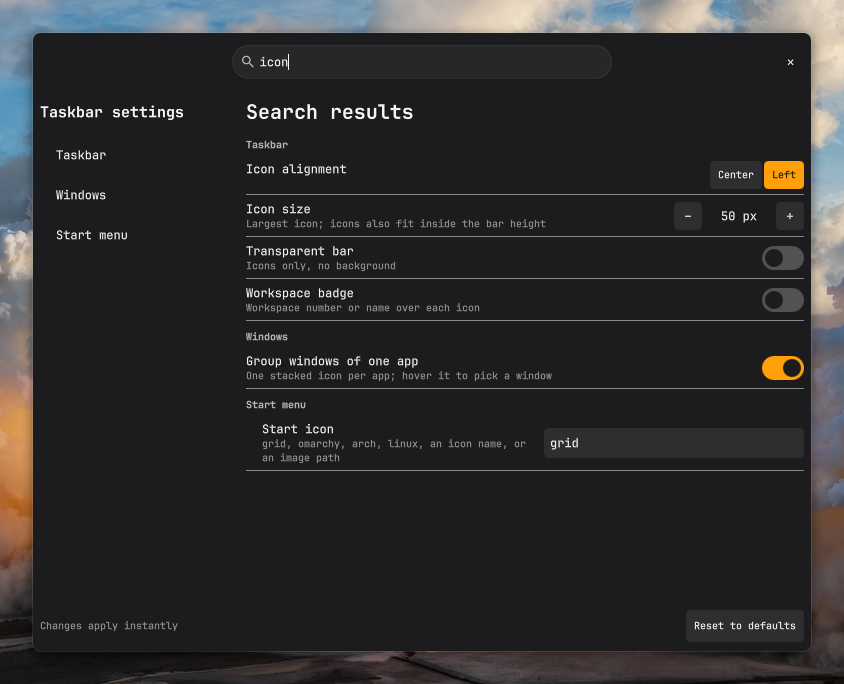
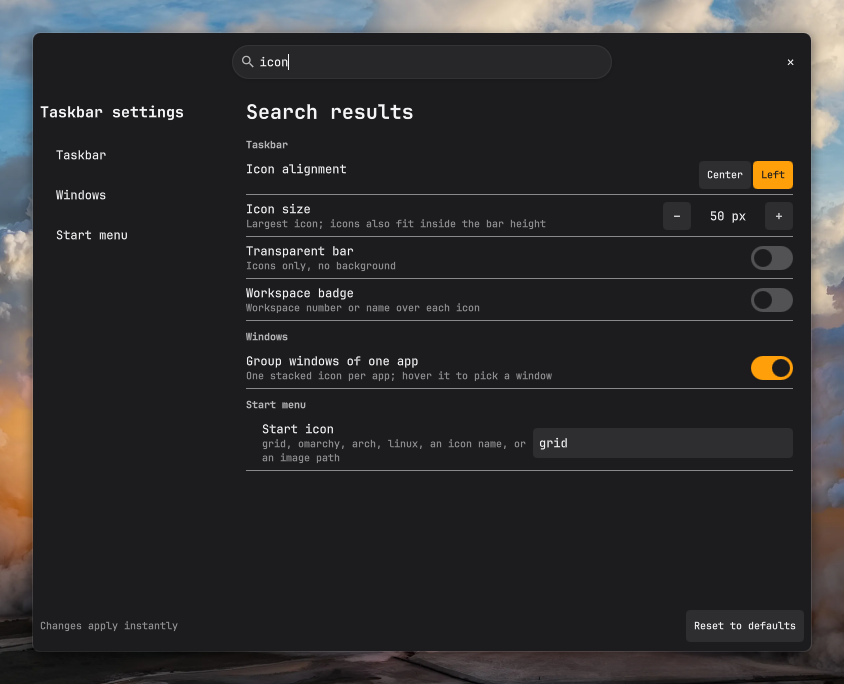
Show a scroll bar in the settings window when a page has more than fits
A page that scrolled gave no sign of it. A thin track now runs down the window's
right edge with a thumb as long as the visible share of the page, only while
there is something to scroll to; drag the thumb or click the track. Its room is
always kept, so the page's width and layout do not change with it. Hand-drawn,
like the rest of the window.

Retake the settings screenshots and the hero GIF, which show it.

diff --git a/Service.qml b/Service.qml
@@ -950,7 +950,9 @@ Item {
         anchors.left: settingsSide.right
         anchors.right: parent.right
         anchors.leftMargin: Style.spacing.lg * 2
-        anchors.rightMargin: Style.spacing.lg
+        // Room for the scroll bar's gutter, always: sizing the body by whether
+        // it scrolls would change its width, and with it its height.
+        anchors.rightMargin: Style.spacing.lg + settingsScrollBar.gutter
         contentHeight: settingsColumn.implicitHeight
         clip: true
         boundsBehavior: Flickable.StopAtBounds
@@ -1088,6 +1090,58 @@ Item {
           }
 
           Item { width: 1; height: Style.spacing.md }
+        }
+      }
+
+      // A scroll bar for the body, there only while the page has more than
+      // fits, so a page that scrolls is seen to: a track down the window's
+      // right edge and a thumb as long as the visible share of the page. Drag
+      // the thumb or click the track; the wheel scrolls the body itself.
+      // (Hand-drawn like the rest of the window: no native controls.)
+      Item {
+        id: settingsScrollBar
+        readonly property int gutter: Style.spacing.lg + Style.spacing.xs
+        readonly property real extent: settingsFlick.contentHeight - settingsFlick.height
+        visible: settingsScrollBar.extent > 1
+        anchors.top: settingsFlick.top
+        anchors.bottom: settingsFlick.bottom
+        anchors.right: parent.right
+        anchors.rightMargin: Style.spacing.lg
+        width: Style.spacing.md
+
+        Rectangle {
+          anchors.fill: parent
+          radius: width / 2
+          color: Util.alpha(root.colPopupText, 0.08)
+        }
+
+        Rectangle {
+          id: scrollThumb
+          width: parent.width
+          radius: width / 2
+          height: Math.min(parent.height, Math.max(Style.space(28), parent.height * settingsFlick.height / settingsFlick.contentHeight))
+          y: settingsScrollBar.extent > 0
+            ? (parent.height - height) * settingsFlick.contentY / settingsScrollBar.extent : 0
+          color: Util.alpha(root.colPopupText, scrollMouse.pressed ? 0.55 : (scrollMouse.containsMouse ? 0.4 : 0.28))
+        }
+
+        MouseArea {
+          id: scrollMouse
+          // A wider target than the thin bar.
+          anchors.fill: parent
+          anchors.leftMargin: -Style.spacing.sm
+          anchors.rightMargin: -Style.spacing.lg
+          hoverEnabled: true
+          cursorShape: Qt.PointingHandCursor
+
+          function scrollTo(pointerY) {
+            var room = settingsScrollBar.height - scrollThumb.height
+            if (room <= 0) return
+            var top = Math.max(0, Math.min(pointerY - scrollThumb.height / 2, room))
+            settingsFlick.contentY = top / room * settingsScrollBar.extent
+          }
+          onPressed: function (mouse) { scrollMouse.scrollTo(mouse.y) }
+          onPositionChanged: function (mouse) { if (scrollMouse.pressed) scrollMouse.scrollTo(mouse.y) }
         }
       }
 

diff --git a/docs/SPEC.md b/docs/SPEC.md
@@ -115,6 +115,7 @@ A window titled "Taskbar settings" with a control for every setting, so nothing 
 - Opened from the "Settings…" row of the Bar menu, and by `omarchy-shell io.github.bmaltais.startbar settings` on the focused monitor (`closeSettings` closes it), so it can be bound to a key.
 - The window opens centred and can be moved by dragging its title bar (it is kept on the screen, with the title bar reachable); it opens centred again each time. The window is a transparent full-screen layer whose input region is just the frame, so clicks beside it reach the desktop, and a drag moves the frame at once.
 - Laid out as the Windows 11 settings are: a search box ("Find a setting", focused on opening) centred at the very top, drawn as the Start menu's is (a pill, the same fill, outline and magnifier), with the close button at its right; below it, on the left, the title "Taskbar settings" and under it one item per page, one under the other; on the right the page's name as a heading above its fields. Pages: Taskbar (look, clock, workspace badge, auto-hide and its delays), Windows (grouping, previews and their options, new windows on their own workspace, Omarchy's dock) and Start menu. The current page has a mark and a tinted background. Typing in the search box replaces the page with a "Search results" heading and the matching fields of every page, each group named by its page: a field matches when every word typed is in its label, its hint or its page's name, in any case. No match says so. Choosing a page clears the search; Escape clears it first and closes the window the second time. A field that follows another setting (a delay with auto-hide off, a preview option with previews off, bar opacity with a transparent bar, the Start button's fields with no Start button) is indented under it and dimmed and inert while that setting says no. Each field is a switch, choice buttons, a stepper, a slider, a text field or a list editor. A test keeps the fields in step with the keys the configuration understands.
+- A page with more fields than fit scrolls (wheel, or drag the thumb or click the track of its scroll bar): a thin track runs down the window's right edge with a thumb as long as the visible share of the page, shown only while there is something to scroll to. The room for it is always kept, so a page's layout does not change with the bar.
 - Every change is written immediately, so the Dock updates live. Text fields commit on Enter or when focus leaves; the opacity slider writes once, on release.
 - Places: unset means the Start menu's XDG folders; "Customize" seeds an editable list from them and "Use defaults" removes the key again.
 - "Reset to defaults" (two clicks, to confirm) removes every setting in the window. Pins, their positions, Start Pins and recent Apps are not settings and are untouched.
